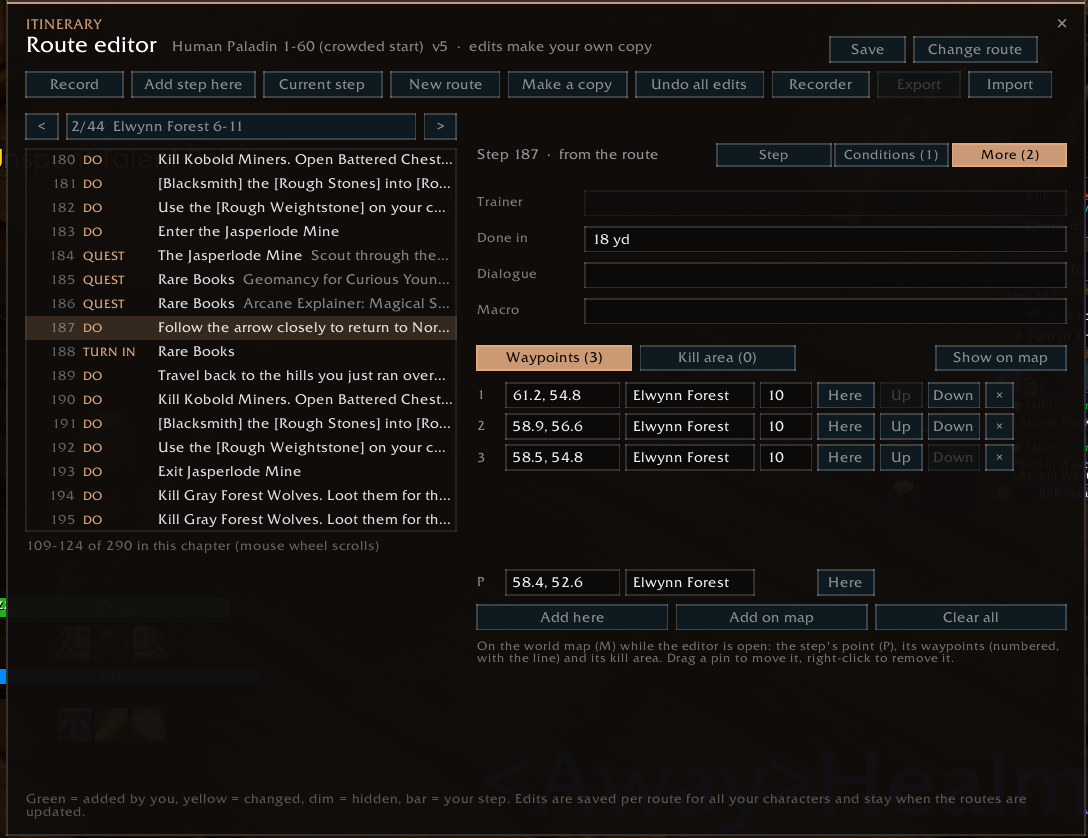
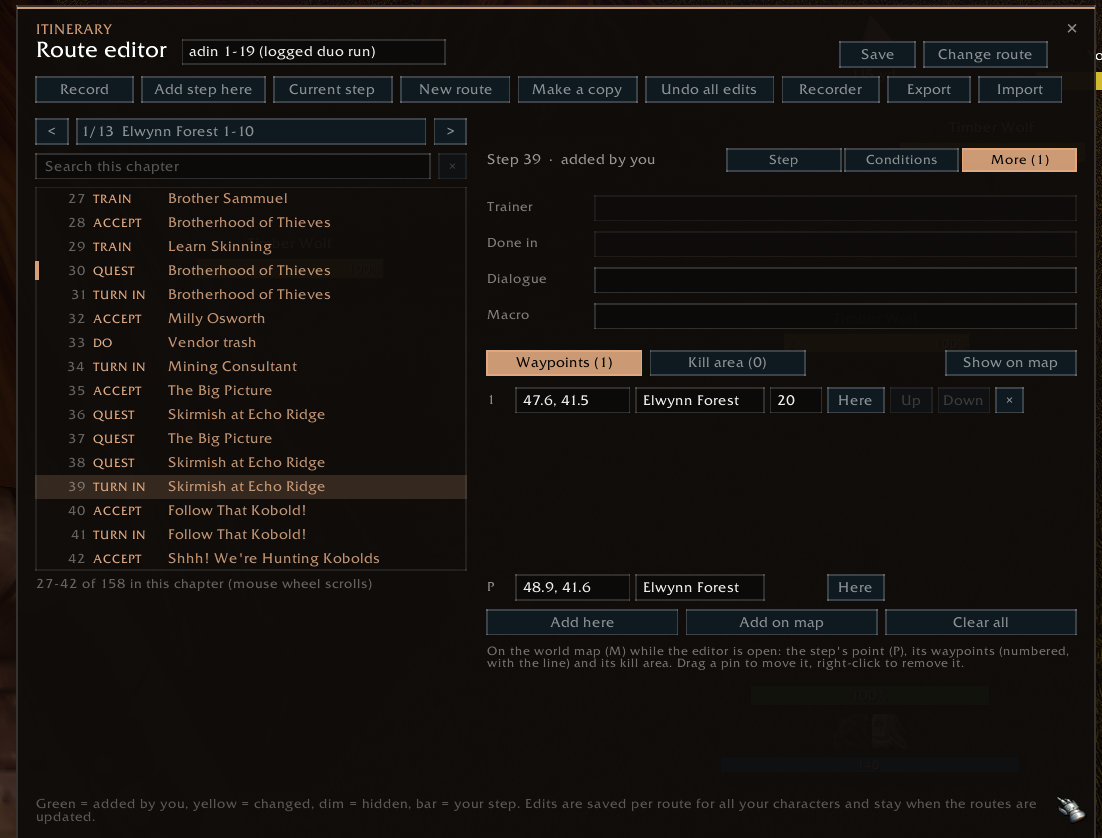
Manual: new route panel, General settings and editor More page screenshots; editor name box shows the whole name
The panel section's examples now follow the new screenshot. The route name box of your own route is 360 wide
and shows a long name from its start.

Claude-Session: https://claude.ai/code/session_012DyZwV4Qtix4bANuyvmVZC

Changed region(s): [[0.0, 0.0, 1.0, 1.0]]

diff --git a/MANUAL.md b/MANUAL.md
@@ -54,7 +54,7 @@ on the ground and NPCs with a quest for you sparkle, without the outlines around
 
 ## 2. The route panel
 
-<p align="center"><img src="manual/route-panel.png" alt="The route panel" width="434"></p>
+<p align="center"><img src="manual/route-panel.png" alt="The route panel" width="469"></p>
 
 From top to bottom:
 
@@ -62,11 +62,12 @@ From top to bottom:
   route's level range. A thin bar along the top shows how far through the chapter you are. Click the
   header to open the **chapter list** and jump to any chapter.
 - **The step**: what to do now, with the NPC, quest names coloured by difficulty, and live objective
-  counts (*Rockjaw Trogg slain 3/10*).
-- **Hint**: a line under the step with extra advice (*Unequip your shirt so you can sell it*). Items and
+  counts (*Filled Tourmaline Phial 0/1*).
+- **Hint**: a line under the step with extra advice (*Fill the Tourmaline Phial from the moonwell ...*). Items and
   spells in the text show their icon. Hover them for the tooltip; Shift-click links them in chat.
 - **ALONG THE WAY**: side objectives you work on while you go, with live counts. These are quest
-  objectives or items to collect (*Chunk of Boar Meat 3/10*), one per line; finished ones stay listed,
+  objectives, side quests (*Camping 101: First Aid*) or items to collect (*Small Spider Leg 0/7*), one per
+  line; items for a later quest say which one (*For Recipe of the Kaldorei*). Finished ones stay listed,
   greyed. Once the route reaches its own step for that quest, that step shows the counts instead.
 - **Next steps**: a preview of what comes after. Steps that are done already are left out (a quest you
   have, an *Abandon* step for a quest you never took or handed in already).
@@ -85,9 +86,9 @@ From top to bottom:
   - **‹ ›**: one step back or forward.
 - **INSTRUCTIONS**, in their own card under the panel (Settings > Panel > *Instructions*: *In the panel* puts
   them inside it): things to keep doing next to your step. Examples: sell junk, use your hearthstone,
-  learn new skills at a trainer close by, a weapon master, a profession trainer, "don't sell the meat".
-  - The guide's errands at a vendor are instructions too, not stops of their own: *Vendor trash at Corina
-    Steele*, *Buy Ice Cold Milk*, food and water, bags, repairs. They're done when you open that vendor
+  learn new skills at a trainer close by, a weapon master, a profession trainer, a place to head for.
+  - The route's errands at a vendor are instructions too, not stops of their own: selling junk and repairs
+    at a named vendor (*... at Brannol Eaglemoon*), food and water, bags. They're done when you open that vendor
     (selling junk: any vendor). Buying something the route needs (a quest item, a weapon, arrows) stays a
     step.
   - **Click** an instruction that has a place (*Click to point the arrow here*), and the arrow points there.
@@ -433,7 +434,7 @@ type and Abandon.
 | Field | What goes in |
 |---|---|
 | **Text** | What the step says (travel and to-do steps; see the table above for the others) |
-| **Hint** | A line under the step (*Unequip your shirt so you can sell it*) |
+| **Hint** | A line under the step (*Fill the phial at the moonwell*) |
 | **Quest IDs** | The quests, comma separated (the ID is in the quest's Wowhead link). For a Quest step, `12:2` means only objective 2 of quest 12 |
 | **NPC** | Who to talk to. Several, comma separated: the first is the one to talk to, the target button looks for all. *Use target* fills it in |
 | **Mobs** | Mobs for the target button, comma separated |

diff --git a/CHANGELOG.md b/CHANGELOG.md
@@ -141,6 +141,8 @@
   train step for the weapon skill you learned there, and nothing when you only had a look.
 - Route editor: your first change to a route from a pack (which makes your own copy) no longer jumps the
   editor to step 1; it stays on the step you're changing.
+- Route editor: the name box of your own route is wider and shows a long name from its start (it showed the
+  end of it).
 - Money conditions worked the wrong way round: a step for when you can afford something showed only while you
   couldn't, and "until you have 10 copper" only once you had it.
 - Riding and lockpicking conditions no longer stop the route with an error; riding counts as known with any

diff --git a/README.md b/README.md
@@ -5,7 +5,7 @@
 A step-by-step leveling companion for WoW Forever: a route panel, a waypoint arrow and a lot of small
 automation, built around routes you record and edit yourself.
 
-<p align="center"><img src="manual/route-panel.png" alt="The route panel" width="434"></p>
+<p align="center"><img src="manual/route-panel.png" alt="The route panel" width="469"></p>
 
 Itinerary ships **without routes**. Record your own with the recorder, import one somebody shared, or
 install a route pack (a separate addon with its own license). Trainer, vendor and gathering positions come
